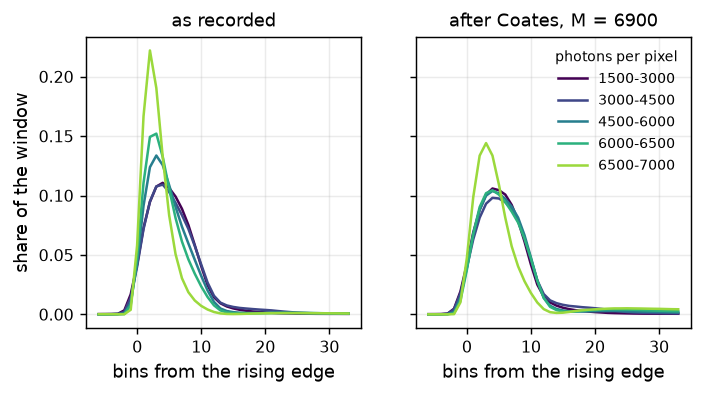
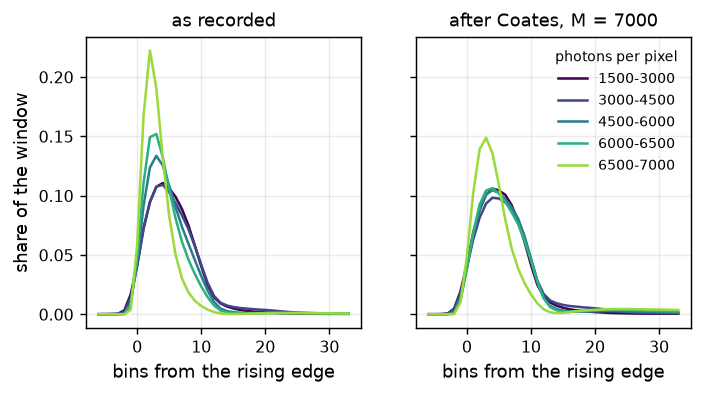
Take the cycle count from the ceiling of the totals

diff --git a/tools/real_stb.py b/tools/real_stb.py
@@ -3,8 +3,10 @@ the first photon bound, with the cycle count and the response read out of
 the histograms themselves.
 
 The pixels are split in two. The even ones calibrate the method: the cycle
-count M is where the flux classes agree on one shape, and the response is
-fitted to the even pixels that hold one return. The odd ones measure it:
+count M is the ceiling of their totals (stb_method.cycles_from_totals), and
+the response is fitted to the even pixels that hold one return. The M at
+which their flux classes agree on one shape after Coates is printed next
+to it as a diagnostic. The odd ones measure the method:
 each histogram is split into groups, every estimator runs on every group,
 and the spread over the groups is set against the first photon bound for
 one group (stb_method.precision).
@@ -109,8 +111,10 @@ def single_returns(lib: Plidar, hists: np.ndarray, cycles: float):
 def calibrate(lib: Plidar, hists: np.ndarray, totals: np.ndarray, bin_width: float):
     """M and the response from the calibration pixels, as (M, the collapse
     curve over M_GRID, the response as fit_response returns it, the number
-    of single return pixels it was fitted to)."""
-    cycles, curve = S.estimate_cycles(lib, hists, totals)
+    of single return pixels it was fitted to). M is the ceiling of the
+    totals; the collapse curve is a diagnostic."""
+    cycles = S.cycles_from_totals(totals)
+    curve = S.estimate_cycles(lib, hists, totals)[1]
     mu, edges, single = single_returns(lib, hists, cycles)
     return cycles, curve, S.fit_response(mu[single], edges[single], bin_width), int(single.sum())
 
@@ -165,10 +169,11 @@ def synthetic(seed: int) -> int:
 
     # Even pixels calibrate and odd pixels measure, as the columns of the
     # recorded data. The truth is read only to compare.
-    cycles, _, response, single = calibrate(lib, hists[0::2], totals[0::2], BIN_WIDTH)
+    cycles, curve, response, single = calibrate(lib, hists[0::2], totals[0::2], BIN_WIDTH)
     l1 = S.l1_distance(response, true)
-    print(f"M {cycles:.0f} (true {CYCLES}); response fitted to {single} single return "
-          f"pixels, L1 {l1:.4f} from the true one")
+    print(f"M {cycles:.0f} from the totals (true {CYCLES}; collapse minimum "
+          f"{S.M_GRID[np.argmin(curve)]}, a diagnostic); response fitted to {single} "
+          f"single return pixels, L1 {l1:.4f} from the true one")
 
     tmpl = S.template_scene(lib.table(*response), NBINS, BIN_WIDTH)
     rows, excluded = S.precision(lib, tmpl, hists[1::2], totals[1::2], cycles,
@@ -400,11 +405,15 @@ def precision_figure(rows: list[dict], out: Path) -> None:
     print(f"wrote {out}")
 
 
-def print_collapse(cycles: float, curve: np.ndarray) -> None:
-    print("distance between the class shapes after Coates, against M:")
+def print_cycles(cycles: float, totals: np.ndarray, curve: np.ndarray) -> None:
+    """M from the totals, after the collapse curve and its minimum, which
+    are a diagnostic."""
+    low = S.M_GRID[np.argmin(curve)]
+    print("distance between the class shapes after Coates, against M (a diagnostic):")
     for m, d in zip(S.M_GRID, curve):
-        print(f"  {m:5d}  {d:.4f}" + ("  <- M" if m == cycles else ""))
-    print(f"M {cycles:.0f}")
+        print(f"  {m:5d}  {d:.4f}" + ("  <- collapse minimum" if m == low else ""))
+    print(f"M {cycles:.0f}, from the totals of the valid even pixels (99.9th percentile "
+          f"{np.percentile(totals, 99.9):.0f}); collapse minimum {low}, a diagnostic")
 
 
 def real(root: Path, sample: int, out: Path, cycles_only: bool, seed: int) -> int:
@@ -426,13 +435,14 @@ def real(root: Path, sample: int, out: Path, cycles_only: bool, seed: int) -> in
         print("even pixels by search class: " + ", ".join(
             f"{lo}-{hi} {int((cal & (totals >= lo) & (totals < hi)).sum())}"
             for lo, hi in S.SEARCH_CLASSES))
-        print_collapse(*S.estimate_cycles(lib, hist[cal], totals[cal]))
+        print_cycles(S.cycles_from_totals(totals[cal]), totals[cal],
+                     S.estimate_cycles(lib, hist[cal], totals[cal])[1])
         print(f"ran in {time.perf_counter() - start:.0f} s")
         return 0
 
     # Even columns: M and the response.
     cycles, curve, response, fitted = calibrate(lib, hist[cal], totals[cal], BIN_WIDTH)
-    print_collapse(cycles, curve)
+    print_cycles(cycles, totals[cal], curve)
     fwhm, rise, tail = response_shape(response)
     print(f"response fitted to {fitted} even single return pixels: width at half height "
           f"{fwhm:.2f} bins ({fwhm * BIN_WIDTH * 1e9:.2f} ns), 10 to 90 percent rise "

diff --git a/tools/stb_method.py b/tools/stb_method.py
@@ -5,11 +5,14 @@ A pixel of the sensor records at most one photon per laser cycle, and the
 number of cycles M is not in the data. Coates undoes that pile up only with
 the right M. Too large an M under-corrects and too small an M over-corrects,
 and either way the corrected shape of a return still depends on how bright
-the pixel is. So M is taken as the value at which pixels of
-different flux agree on one shape (estimate_cycles). With M known, the
-corrected rates of pixels that hold one return are aligned on their rising
-edges and fitted with a piecewise linear density, which becomes the table
-the library uses for the response (fit_response).
+the pixel is. No pixel can record more photons than there were cycles, so M
+is read from the ceiling of the totals (cycles_from_totals). The value at
+which pixels of different flux agree on one shape after Coates
+(estimate_cycles) depends on which pixels the scene holds, and is kept as a
+diagnostic. With M known, the corrected rates of pixels that hold one
+return are aligned on their rising edges and fitted with a piecewise linear
+density, which becomes the table the library uses for the response
+(fit_response).
 
 A recorded pixel is one acquisition, so the spread of an estimator cannot be
 seen on it directly. Splitting its counts at random into K_GROUPS groups
@@ -137,10 +140,27 @@ def shape_distance(shapes: np.ndarray) -> float:
     return float(np.abs(s - s.mean(axis=0)).sum(axis=1).mean())
 
 
+def cycles_from_totals(totals) -> float:
+    """M as the smallest multiple of 100 at or above the 99.9th percentile
+    of the totals.
+
+    A pixel records at most one photon per cycle, so no total can exceed M
+    and the ceiling of the totals bounds M from below. On a sensor whose
+    brightest pixels detect in nearly every cycle the totals pile up just
+    under it. The ceiling measures the instrument, while the shape collapse
+    of estimate_cycles moves with the pixels a scene holds. The percentile
+    leaves out the rare pixel far above the rest: one reaches 8424 in
+    sample 1.
+    """
+    return float(np.ceil(np.percentile(totals, 99.9) / 100.0) * 100.0)
+
+
 def estimate_cycles(lib: Plidar, hist: np.ndarray, totals: np.ndarray,
                     grid=M_GRID, classes=SEARCH_CLASSES) -> tuple[float, np.ndarray]:
     """The M of the grid at which the Coates corrected class shapes are
-    closest to each other, and the distance at every M of the grid.
+    closest to each other, and the distance at every M of the grid. A
+    diagnostic next to cycles_from_totals: where the classes agree depends on
+    the scene.
 
     Only pixels with a total under the top of the classes enter, 6400 for
     SEARCH_CLASSES. Every one of them then has cycles left at the smallest

diff --git a/tools/test_stb_method.py b/tools/test_stb_method.py
@@ -63,6 +63,18 @@ def test_estimate_cycles_finds_the_true_count():
     assert curve.min() < 0.5 * min(curve[0], curve[-1]), curve
 
 
+def test_cycles_from_totals_is_the_next_hundred_over_the_ceiling():
+    assert S.cycles_from_totals(np.full(10, 6945)) == 7000.0
+    assert S.cycles_from_totals(np.full(10, 6900)) == 6900.0  # a hundred stays itself
+    # One pixel far above the rest, like the 8424 of sample 1, moves nothing.
+    assert S.cycles_from_totals(np.append(np.full(9999, 6800), 8424)) == 6800.0
+    rng = np.random.default_rng(9)
+    for _ in range(200):
+        t = rng.integers(1500, 7000, rng.integers(10, 5000))
+        m, p = S.cycles_from_totals(t), np.percentile(t, 99.9)
+        assert m % 100 == 0 and p <= m < p + 100, (m, p)
+
+
 def test_fit_response_recovers_the_density():
     lib = Plidar()
     true = S.flat_top(BIN)

diff --git a/docs/real/README.md b/docs/real/README.md
@@ -20,7 +20,7 @@ python tools/real_stb.py --data DIR --sample 1
 
 The even columns of the sensor give the cycle count M, the response and the shift of the Livox projection, so `collapse.csv` and `shapes.png` come from them. `precision.csv`, `livox.csv` and `precision.png` are measured on the odd columns.
 
-- `collapse.csv`: for every M tried, the mean L1 distance between the shapes of the flux classes after Coates. The run uses the M at the minimum.
+- `collapse.csv`: for every M tried, the mean L1 distance between the shapes of the flux classes after Coates. It is a diagnostic: the run takes M from the ceiling of the totals, the smallest multiple of 100 at or above their 99.9th percentile, because no pixel can record more photons than there were cycles, while where the shapes agree depends on the scene.
 - `precision.csv`: for every flux class and estimator, `ratio` is the spread over 4 groups of each pixel against the first photon bound for one group, `bound_mm` the median of that bound as a distance, `groups` and `failures` the groups tried and lost, and `mean_photons` the mean recorded photons of the class.
 - `livox.csv`: residuals against the Livox points on pixels with a compact reference. Only the fullest bin uses the dataset's own conversion to range, so only its `median_cm` says something about the offset map. The other estimators place their origin on the rising edge, a constant away from that conversion, so their median is removed and reads 0. `spread_cm` is 1.4826 times the median absolute deviation from the median and `within5_pct` the share of pixels within 5 cm of it.
 - `shapes.png`: the mean return of each flux class, as recorded and after Coates with M.
